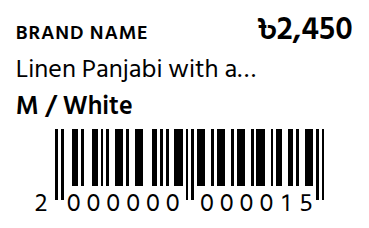
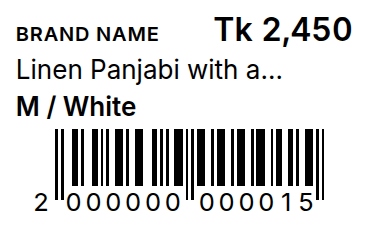
feat(m43): packing slip printing, English docs and decisions D-750 to D-756
Print packing slips (A4 and A5) from the order list and detail; the slip's
barcode opened at the real packing station in a test; courier label test in
English; architecture §22 and §24, CLAUDE.md, the training and testing guides
and decisions D-750 to D-756 for English only and the new documents.

diff --git a/apps/console/src/routes/orders/api.ts b/apps/console/src/routes/orders/api.ts
@@ -423,14 +423,28 @@ export const listBuyers = (filters: BuyerFilters, limit: number, offset: number)
  * the browser handles better than a blob URL does — the session cookie travels with a
  * top-level navigation to the API's origin exactly as it does with `fetch`.
  */
-export const documentsUrl = (ids: readonly string[], kind: 'invoice' | 'label' | 'packing_slip') =>
+/** A4, or A5 for the packing slip (M43, D-752). */
+export type DocumentPaper = 'a4' | 'a5';
+
+export const documentsUrl = (
+  ids: readonly string[],
+  kind: 'invoice' | 'label' | 'packing_slip',
+  paper: DocumentPaper = 'a4',
+) =>
   new URL(
-    `/v1/orders/documents${query({ ids: ids.join(','), kind })}`,
+    `/v1/orders/documents${query({ ids: ids.join(','), kind, ...(paper === 'a5' ? { paper } : {}) })}`,
     env.VITE_API_URL,
   ).toString();
 
-export const documentUrl = (id: string, kind: 'invoice' | 'label' | 'packing_slip') =>
-  new URL(`/v1/orders/${id}/document${query({ kind })}`, env.VITE_API_URL).toString();
+export const documentUrl = (
+  id: string,
+  kind: 'invoice' | 'label' | 'packing_slip',
+  paper: DocumentPaper = 'a4',
+) =>
+  new URL(
+    `/v1/orders/${id}/document${query({ kind, ...(paper === 'a5' ? { paper } : {}) })}`,
+    env.VITE_API_URL,
+  ).toString();
 
 export const buyersExportUrl = (filters: BuyerFilters, format: 'csv' | 'xlsx') =>
   new URL(`/v1/buyers/export${query({ ...filters, format })}`, env.VITE_API_URL).toString();

diff --git a/apps/console/src/routes/orders/order-list.tsx b/apps/console/src/routes/orders/order-list.tsx
@@ -18,6 +18,7 @@ import { useMutation, useQuery, useQueryClient } from '@tanstack/react-query';
 import { Link } from '@tanstack/react-router';
 import {
   CheckCheck,
+  ClipboardList,
   FileText,
   PackageCheck,
   Plus,
@@ -133,7 +134,7 @@ function OrderList() {
   );
   const zoneName = useMemo(
     () => new Map((areas.data?.zones ?? []).map((zone) => [zone.id, zone.nameEn])),
-    [areas.data, locale],
+    [areas.data],
   );
 
   const rows = orders.data?.items ?? [];
@@ -437,6 +438,22 @@ function OrderList() {
           >
             <FileText aria-hidden="true" />
             {t('orders.bulk.printInvoices')}
+          </Button>
+          <Button
+            size="sm"
+            variant="outline"
+            onClick={() => window.open(documentsUrl(chosen, 'packing_slip'), '_blank')}
+          >
+            <ClipboardList aria-hidden="true" />
+            {t('orders.bulk.printSlips')}
+          </Button>
+          <Button
+            size="sm"
+            variant="outline"
+            onClick={() => window.open(documentsUrl(chosen, 'packing_slip', 'a5'), '_blank')}
+          >
+            <ClipboardList aria-hidden="true" />
+            {t('orders.bulk.printSlipsA5')}
           </Button>
           <Button
             size="sm"

diff --git a/apps/server/src/modules/files/pdf/gotenberg.client.ts b/apps/server/src/modules/files/pdf/gotenberg.client.ts
@@ -2,9 +2,11 @@
  * The Gotenberg client (architecture §22, §21).
  *
  * Gotenberg is headless Chromium behind an HTTP API. It is used instead of a
- * PDF library because §22's real requirement is Bangla: a library that draws
- * text box by box does not run the font's GSUB table, so `ক্ষ` comes out as
- * three separate letters. Chromium shapes it because Chromium is a browser.
+ * PDF library because a document is a designed page — grid, hairlines, a
+ * variable font's weights, tabular figures — and a browser lays that out from
+ * the same HTML and CSS a test can read. It also shapes any script a buyer
+ * types into their own name or address, which a box-by-box PDF library does
+ * not (the documents' own words are English, D-750).
  *
  * ## What was verified, and how
  *
@@ -130,7 +132,7 @@ export class GotenbergClient {
   /**
    * Rasterize a document to PNG.
    *
-   * Used for the human-checkable Bangla proof (acceptance check 5). It renders
+   * Used for the review pictures of every document (M43). It renders
    * the same HTML through the same Chromium with the same fonts as `renderPdf`,
    * so what it shows is what the PDF contains — which is the property that
    * makes it evidence rather than decoration.

diff --git a/apps/console/src/routes/courier/performance.tsx b/apps/console/src/routes/courier/performance.tsx
@@ -3,7 +3,6 @@ import { useQuery } from '@tanstack/react-query';
 import { Fragment, useMemo, useState } from 'react';
 
 import { useAbility } from '../../auth/session.js';
-import { useLocale } from '../../i18n/locale.js';
 import { deliveryZones, performance, type PerformanceRow } from './api.js';
 import { CourierHeader, Field } from './courier-nav.js';
 import { daysBefore, percentOfBps, todayInDhaka } from './courier-ui.js';
@@ -24,7 +23,6 @@ import { DateRangePicker } from '../../ui/date-picker.js';
  */
 export function CourierPerformancePage() {
   const t = useCourierT();
-  const { locale } = useLocale();
   const ability = useAbility();
   const mayRead = ability.can('read', 'LedgerReport');
 
@@ -48,7 +46,7 @@ export function CourierPerformancePage() {
     const names = new Map((zones.data?.zones ?? []).map((zone) => [zone.id, zone.nameEn]));
     return (id: string | null) =>
       id === null ? t('courier.performance.noZone') : (names.get(id) ?? id.slice(0, 8));
-  }, [zones.data, locale, t]);
+  }, [zones.data, t]);
 
   const rows = report.data?.rows ?? [];
   const couriers = report.data?.couriers ?? [];

diff --git a/apps/console/src/routes/orders/order-detail.tsx b/apps/console/src/routes/orders/order-detail.tsx
@@ -10,7 +10,7 @@ import {
 } from '@elysium/ui';
 import { useMutation, useQuery, useQueryClient } from '@tanstack/react-query';
 import { Link, useParams } from '@tanstack/react-router';
-import { ArrowLeft, FileText, Tag } from 'lucide-react';
+import { ArrowLeft, ClipboardList, FileText, Tag } from 'lucide-react';
 import { useMemo, useState } from 'react';
 
 import { ApiError } from '../../api.js';
@@ -207,6 +207,15 @@ function Loaded({ order }: { readonly order: OrderDetail }) {
           >
             <FileText aria-hidden="true" />
             {t('orders.detail.printInvoice')}
+          </a>
+          <a
+            href={documentUrl(order.id, 'packing_slip')}
+            target="_blank"
+            rel="noreferrer"
+            className={buttonVariants({ variant: 'outline', size: 'sm' })}
+          >
+            <ClipboardList aria-hidden="true" />
+            {t('orders.detail.printSlip')}
           </a>
           <a
             href={documentUrl(order.id, 'label')}

diff --git a/apps/pos/e2e/offline-sync.spec.ts b/apps/pos/e2e/offline-sync.spec.ts
@@ -1,3 +1,6 @@
+import { mkdirSync } from 'node:fs';
+import path from 'node:path';
+
 import { expect, test, type APIRequestContext, type Page } from '@playwright/test';
 
 import { STUB_API } from '../playwright.config.js';
@@ -248,6 +251,10 @@ test('a receipt prints through the print stylesheet: 80 mm, English, and nothing
   const printed = await receipt.innerText();
   const bengali = new RegExp(`[${String.fromCodePoint(0x0980)}-${String.fromCodePoint(0x09ff)}]`);
   expect(bengali.test(printed), printed).toBe(false);
+  // The receipt as the customer gets it, for the owner's review (M43).
+  const review = path.resolve(import.meta.dirname, '../../../docs/review/M43');
+  mkdirSync(review, { recursive: true });
+  await receipt.screenshot({ path: path.join(review, 'till-receipt-80mm.png') });
   await expect(receipt.getByTestId('receipt-no')).toHaveText('GUL1-1-0001');
 
   // And the browser's own print pipeline lays it out on an 80 mm page.

diff --git a/packages/i18n/src/locales/en.ts b/packages/i18n/src/locales/en.ts
@@ -1561,6 +1561,8 @@ const en = {
   'orders.bulk.confirm': 'Confirm selected',
   'orders.bulk.printInvoices': 'Print invoices',
   'orders.bulk.printLabels': 'Print labels',
+  'orders.bulk.printSlips': 'Print packing slips',
+  'orders.bulk.printSlipsA5': 'Print packing slips (A5)',
   'orders.bulk.confirmedCount': 'confirmed',
   'orders.bulk.failedCount': 'could not be confirmed',
   'orders.bulk.selectAll': 'Select every order on this page',
@@ -1595,6 +1597,7 @@ const en = {
   'orders.detail.keep': 'Keep it',
   'orders.detail.printInvoice': 'Invoice',
   'orders.detail.printLabel': 'Label',
+  'orders.detail.printSlip': 'Packing slip',
   'orders.detail.notFound': 'Order not found',
   'orders.detail.notFoundDetail': 'It may not exist, or it may be another agent’s order.',
   'orders.detail.actionFailed': 'That did not work:',

diff --git a/packages/ui/src/components/money.tsx b/packages/ui/src/components/money.tsx
@@ -17,7 +17,7 @@ import { cn } from '../lib/cn.js';
  *    proportional digits does not line up — an accountant scanning a cash book
  *    for an anomaly is reading the *shape* of the column, and proportional
  *    figures destroy that signal.
- * 3. **`formatMoney`**, so grouping is lakh/crore rather than thousands. ৳১,২৩,৪৫৬.৭৮,
+ * 3. **`formatMoney`**, so grouping is lakh/crore rather than thousands. ৳1,23,456.78,
  *    not ৳123,456.78. Getting this wrong is not a cosmetic bug in Bangladesh; it
  *    is a number the reader has to stop and re-parse.
  *

diff --git a/apps/console/src/routes/orders/messages.ts b/apps/console/src/routes/orders/messages.ts
@@ -176,6 +176,8 @@ const ORDERS_KEYS = [
   'orders.bulk.confirm',
   'orders.bulk.printInvoices',
   'orders.bulk.printLabels',
+  'orders.bulk.printSlips',
+  'orders.bulk.printSlipsA5',
   'orders.bulk.confirmedCount',
   'orders.bulk.failedCount',
   'orders.bulk.selectAll',
@@ -208,6 +210,7 @@ const ORDERS_KEYS = [
   'orders.detail.keep',
   'orders.detail.printInvoice',
   'orders.detail.printLabel',
+  'orders.detail.printSlip',
   'orders.detail.notFound',
   'orders.detail.notFoundDetail',
   'orders.detail.actionFailed',

diff --git a/apps/server/src/modules/courier/courier.m15.db.test.ts b/apps/server/src/modules/courier/courier.m15.db.test.ts
@@ -1451,7 +1451,9 @@ describe('bulk booking and labels', () => {
     });
     expect(html).not.toContain('<script>alert(1)</script>');
     expect(html).toContain('&lt;script&gt;');
-    expect(html).toContain('৳2,480.00');
+    // English, with money as `Tk` (D-750, D-751).
+    expect(html).toContain('Tk 2,480.00');
+    expect(html).toContain('lang="en"');
     expect(html).toContain('<svg');
     expect(html).not.toMatch(/cost|unit_price/i);
   });

diff --git a/apps/console/src/shell/navigation.ts b/apps/console/src/shell/navigation.ts
@@ -631,7 +631,7 @@ export const PALETTE_ACTIONS: readonly PaletteAction[] = [
     labelKey: 'palette.actionNewOrder',
     icon: SquarePen,
     required: { action: 'create', subject: 'Order' },
-    keywords: ['new order', 'sell', 'order desk', 'নতুন অর্ডার'],
+    keywords: ['new order', 'sell', 'order desk'],
   },
   {
     id: 'order-queue',

diff --git a/apps/console/src/routes/orders/order-desk.tsx b/apps/console/src/routes/orders/order-desk.tsx
@@ -256,7 +256,7 @@ function Desk() {
       area !== null && areaQuery === areaLabel(area)
         ? []
         : filterAreas(areas.data?.areas ?? [], areaQuery),
-    [areas.data, areaQuery, area, locale],
+    [areas.data, areaQuery, area],
   );
   const zone = useMemo(
     () => areas.data?.zones.find((entry) => entry.id === area?.zoneId) ?? null,
